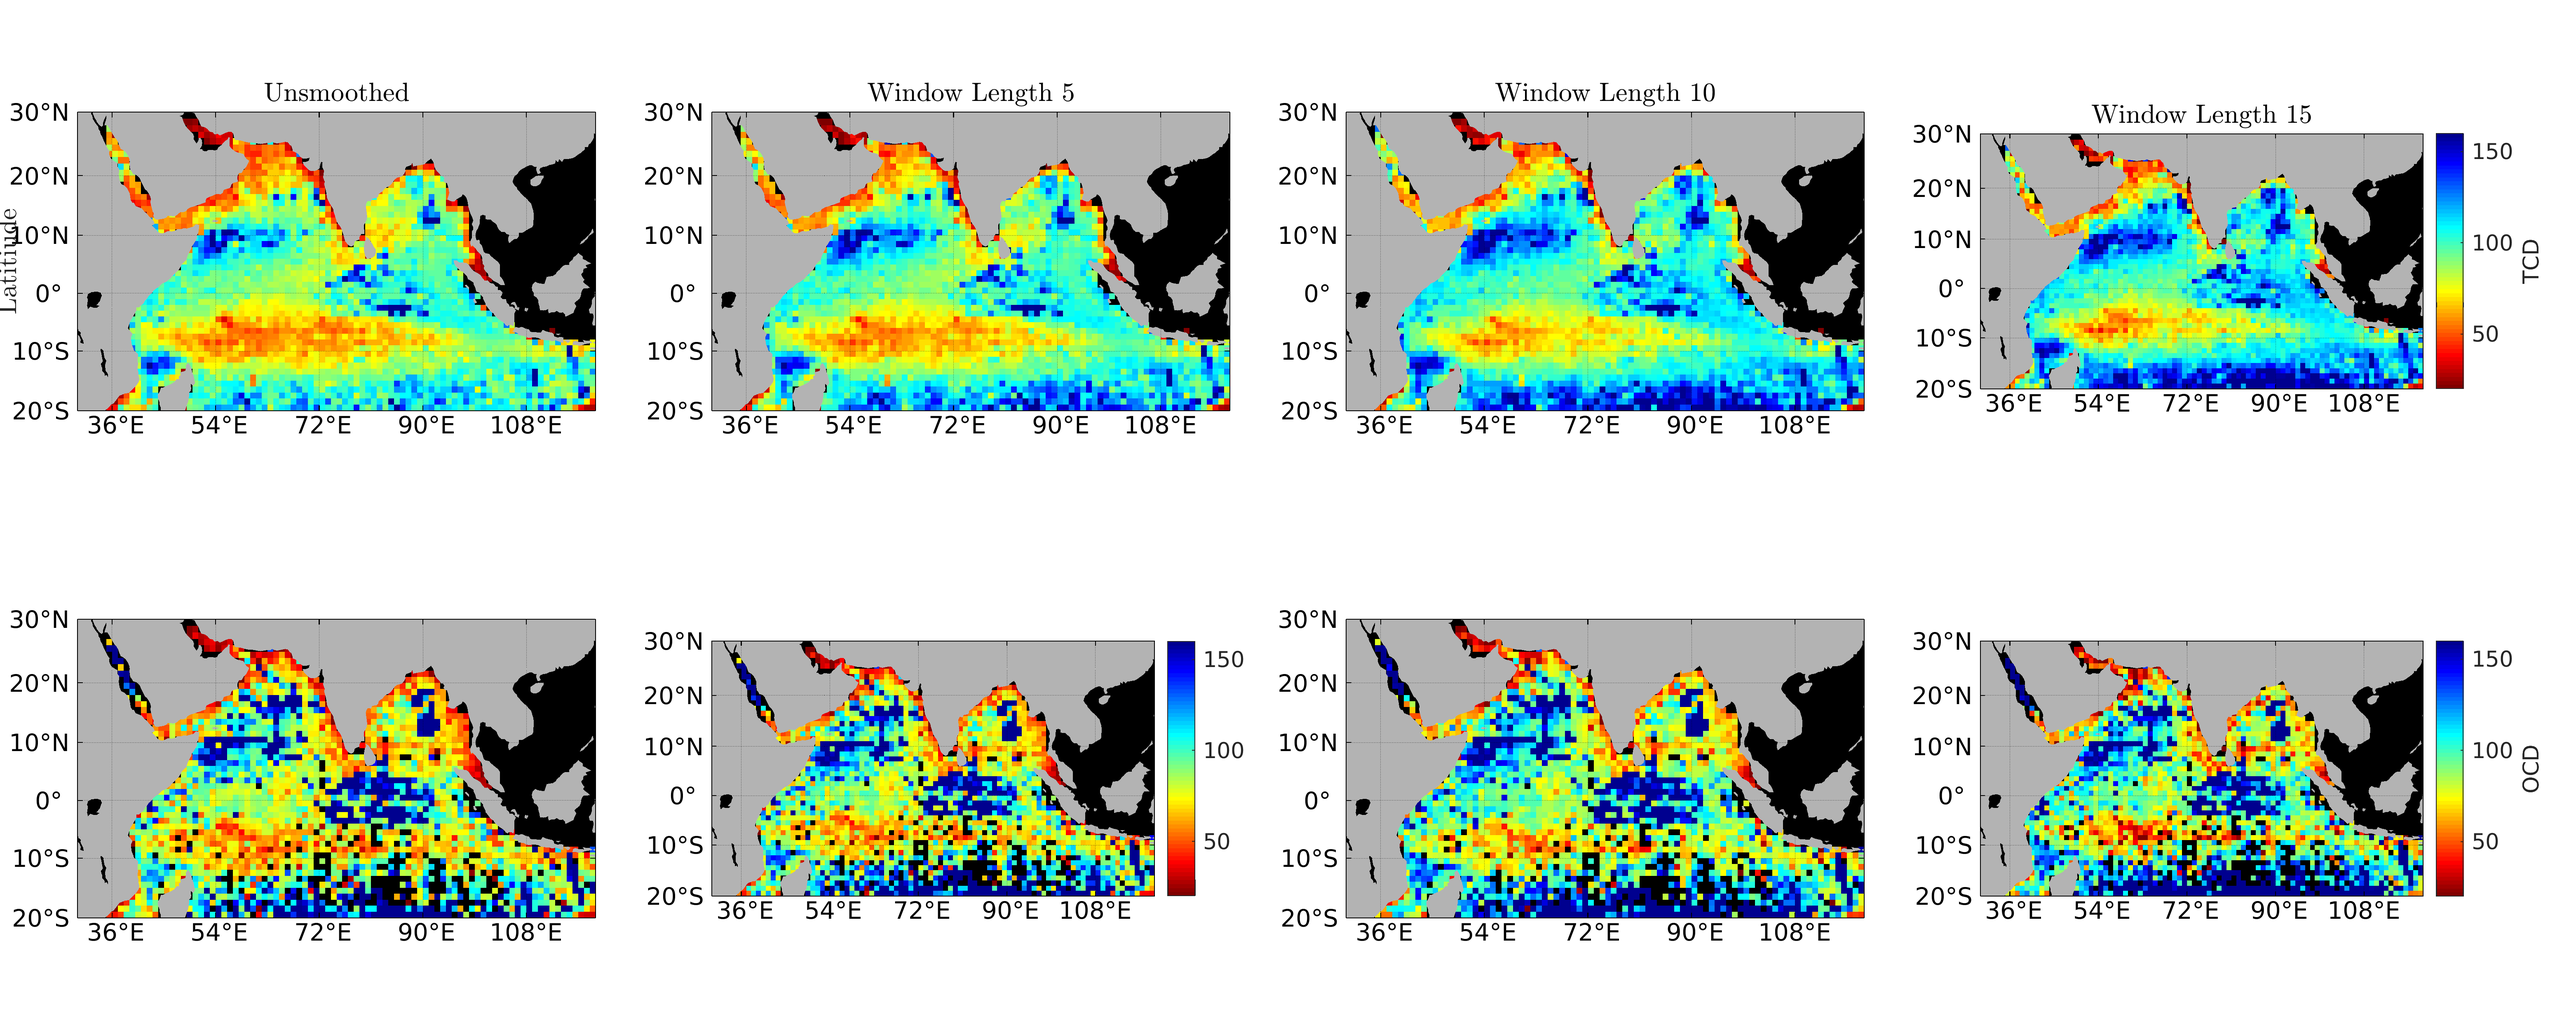
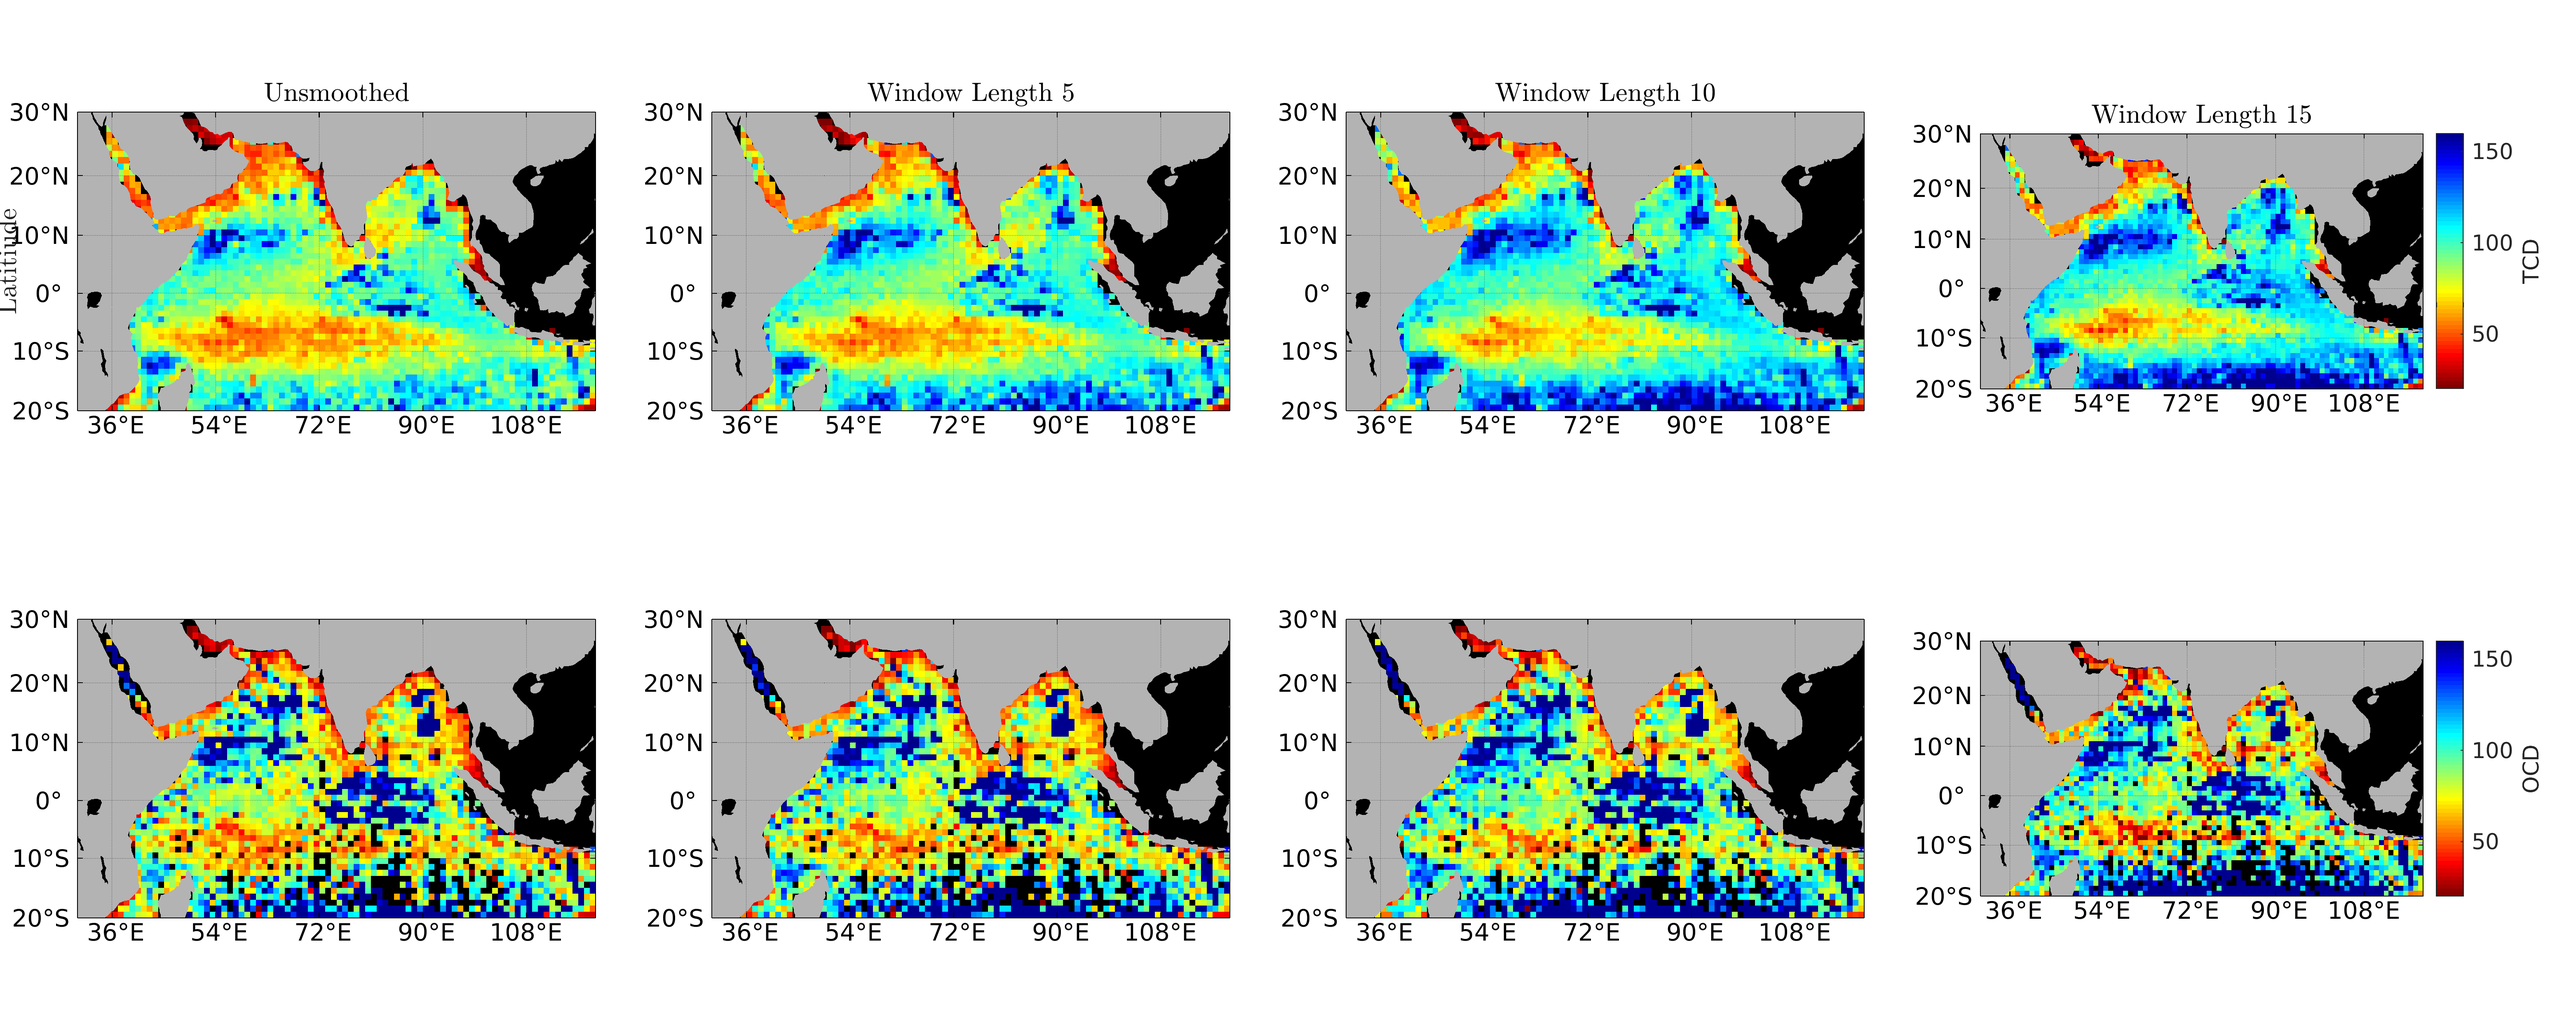
updates

Changed region(s): [[0.2496, 0.5928, 0.4992, 0.9048], [0.2496, 0.7176, 0.2808, 0.7488]]

diff --git a/Code/Initial_Testing/B_Vertical_Smoothing_Testing.m b/Code/Initial_Testing/B_Vertical_Smoothing_Testing.m
@@ -238,7 +238,7 @@ c = colorbar;
 % ylabel(c,'OCD')
 oldcmap = colormap('jet');
 colormap( flipud(oldcmap) );
-
+delete(colorbar);
 % title('Window Length 5')
 % xlabel('Longitude')
 % ylabel('Latitiude')
